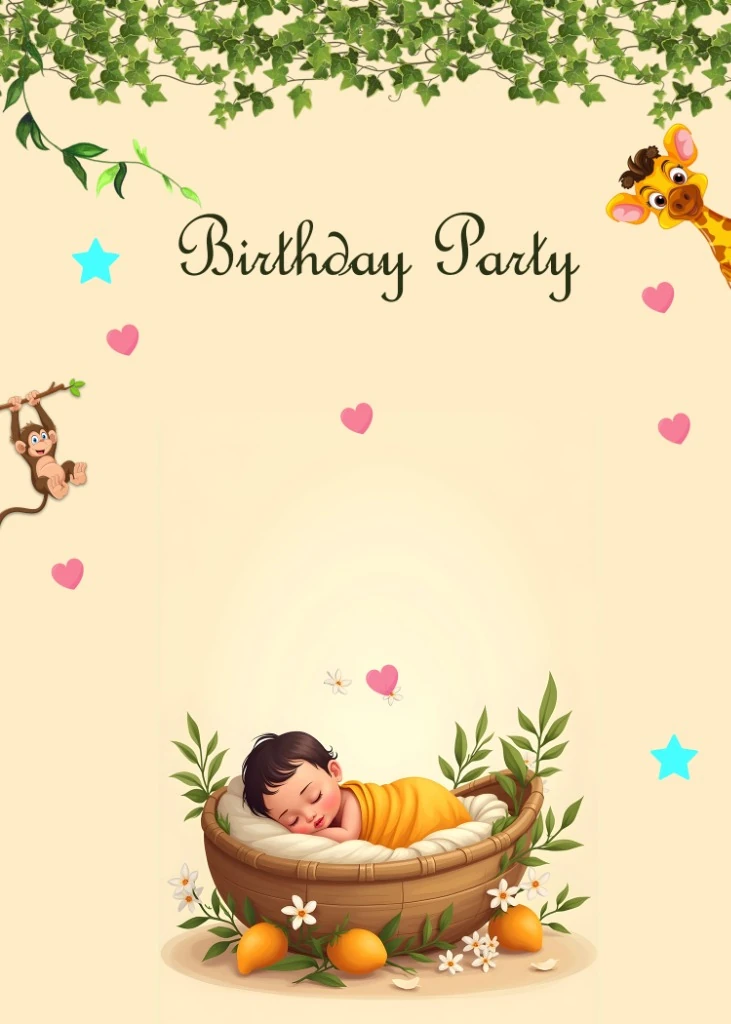
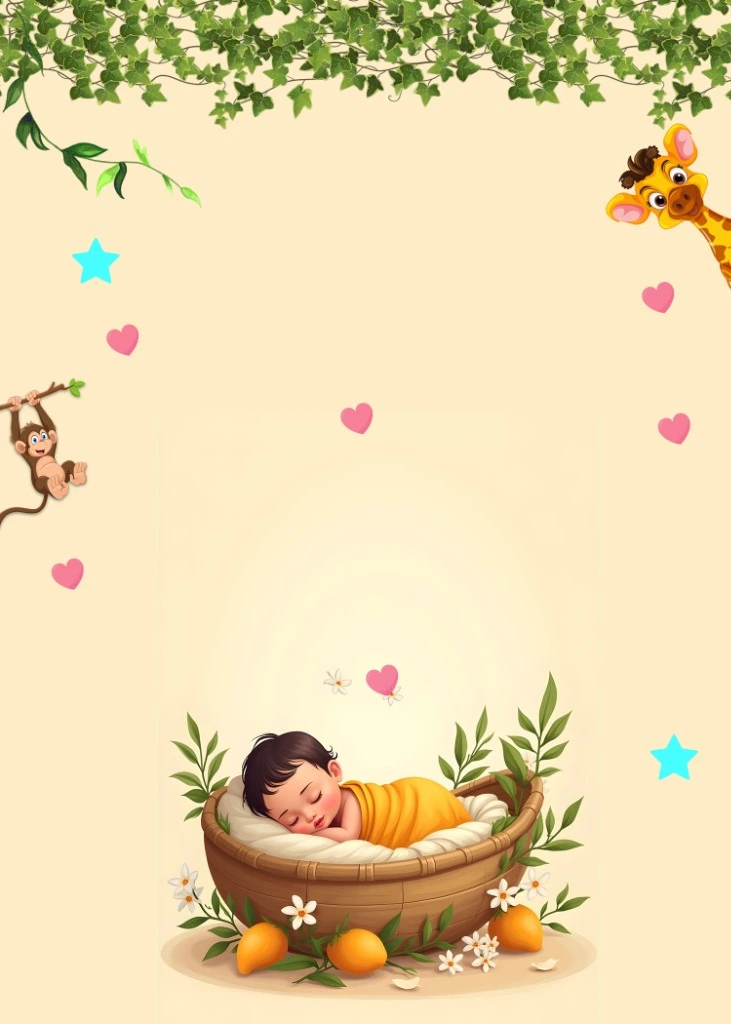
feat(template): update jungle-baby-birthday with middle aligned text, editable Birthday Party layer, and new display preview

Changed region(s): [[0.2408, 0.1875, 0.5718, 0.3125], [0.5718, 0.1875, 0.7825, 0.3125]]

diff --git a/src/data/templates.ts b/src/data/templates.ts
@@ -1253,17 +1253,17 @@ export const SAMPLE_TEMPLATES: CardTemplate[] = [
         "type": "text",
         "text": "JOIN US TO CELEBRATE",
         "fontFamily": "'Outfit', sans-serif",
-        "fontSize": 18,
+        "fontSize": 16,
         "fontWeight": "bold",
         "fontStyle": "normal",
         "textAlign": "center",
         "color": "#1B3B2B",
-        "letterSpacing": 2,
+        "letterSpacing": 2.5,
         "lineHeight": 1.2,
         "textTransform": "uppercase",
-        "x": 85,
+        "x": 0,
         "y": 148,
-        "width": 480,
+        "width": 731,
         "height": 28,
         "rotation": 0,
         "opacity": 1,
@@ -1271,96 +1271,118 @@ export const SAMPLE_TEMPLATES: CardTemplate[] = [
         "zIndex": 1
       },
       {
-        "id": "jb-invitation-message",
+        "id": "jb-title",
         "type": "text",
-        "text": "We joyfully invite you to a special\ncelebration for our little one's birthday!",
-        "fontFamily": "'Poppins', sans-serif",
-        "fontSize": 19,
-        "fontWeight": "600",
+        "text": "Birthday Party",
+        "fontFamily": "'Great Vibes', cursive",
+        "fontSize": 64,
+        "fontWeight": "normal",
         "fontStyle": "normal",
         "textAlign": "center",
-        "color": "#8B1E2F",
-        "letterSpacing": 0.5,
-        "lineHeight": 1.35,
+        "color": "#224229",
+        "letterSpacing": 1,
+        "lineHeight": 1.1,
         "textTransform": "none",
-        "x": 85,
-        "y": 310,
-        "width": 480,
-        "height": 55,
+        "x": 0,
+        "y": 200,
+        "width": 731,
+        "height": 78,
         "rotation": 0,
         "opacity": 1,
         "isLocked": false,
         "zIndex": 2
       },
       {
-        "id": "jb-child-name",
+        "id": "jb-invitation-message",
         "type": "text",
-        "text": "Shivansh",
-        "fontFamily": "'Rozha One', serif",
-        "fontSize": 62,
-        "fontWeight": "bold",
+        "text": "We joyfully invite you to a special\ncelebration for our little one's birthday!",
+        "fontFamily": "'Poppins', sans-serif",
+        "fontSize": 17,
+        "fontWeight": "700",
         "fontStyle": "normal",
         "textAlign": "center",
-        "color": "#2E5A36",
-        "letterSpacing": 2,
-        "lineHeight": 1.1,
+        "color": "#8B1E2F",
+        "letterSpacing": 0.5,
+        "lineHeight": 1.4,
         "textTransform": "none",
-        "shadowColor": "rgba(46, 90, 54, 0.2)",
-        "shadowBlur": 6,
-        "shadowOffsetX": 0,
-        "shadowOffsetY": 2,
-        "x": 85,
-        "y": 430,
-        "width": 480,
-        "height": 75,
+        "x": 0,
+        "y": 308,
+        "width": 731,
+        "height": 56,
         "rotation": 0,
         "opacity": 1,
         "isLocked": false,
         "zIndex": 3
       },
       {
-        "id": "jb-date-time",
+        "id": "jb-child-name",
         "type": "text",
-        "text": "10 | March | 2026 • 5:00 PM Onwards",
-        "fontFamily": "'Poppins', sans-serif",
-        "fontSize": 20,
-        "fontWeight": "700",
+        "text": "Shivansh",
+        "fontFamily": "'Rozha One', serif",
+        "fontSize": 56,
+        "fontWeight": "bold",
         "fontStyle": "normal",
         "textAlign": "center",
-        "color": "#3A4A32",
-        "letterSpacing": 1,
-        "lineHeight": 1.2,
+        "color": "#1D4630",
+        "letterSpacing": 2,
+        "lineHeight": 1.1,
         "textTransform": "none",
-        "x": 85,
-        "y": 530,
-        "width": 480,
-        "height": 30,
+        "shadowColor": "rgba(29, 70, 48, 0.2)",
+        "shadowBlur": 4,
+        "shadowOffsetX": 0,
+        "shadowOffsetY": 2,
+        "x": 0,
+        "y": 415,
+        "width": 731,
+        "height": 75,
         "rotation": 0,
         "opacity": 1,
         "isLocked": false,
         "zIndex": 4
       },
       {
-        "id": "jb-venue",
+        "id": "jb-date-time",
         "type": "text",
-        "text": "Ragini Hall, Connaught Place, New Delhi",
+        "text": "10 | March | 2026 • 5:00 PM Onwards",
         "fontFamily": "'Poppins', sans-serif",
-        "fontSize": 18,
-        "fontWeight": "600",
+        "fontSize": 17,
+        "fontWeight": "700",
         "fontStyle": "normal",
         "textAlign": "center",
-        "color": "#2C3E2D",
-        "letterSpacing": 0.4,
-        "lineHeight": 1.3,
+        "color": "#273A2A",
+        "letterSpacing": 1,
+        "lineHeight": 1.2,
         "textTransform": "none",
-        "x": 85,
-        "y": 575,
-        "width": 480,
-        "height": 32,
+        "x": 0,
+        "y": 520,
+        "width": 731,
+        "height": 30,
         "rotation": 0,
         "opacity": 1,
         "isLocked": false,
         "zIndex": 5
+      },
+      {
+        "id": "jb-venue",
+        "type": "text",
+        "text": "Ragini Hall, Connaught Place, New Delhi",
+        "fontFamily": "'Poppins', sans-serif",
+        "fontSize": 16,
+        "fontWeight": "600",
+        "fontStyle": "normal",
+        "textAlign": "center",
+        "color": "#273A2A",
+        "letterSpacing": 0.4,
+        "lineHeight": 1.3,
+        "textTransform": "none",
+        "x": 0,
+        "y": 565,
+        "width": 731,
+        "height": 32,
+        "rotation": 0,
+        "opacity": 1,
+        "isLocked": false,
+        "zIndex": 6
       }
     ]
   },

diff --git a/tailwind.config.ts b/tailwind.config.ts
@@ -50,8 +50,10 @@ export default {
         sm: "calc(var(--radius) - 4px)",
       },
       fontFamily: {
+        sans: ["'Inter'", "'Poppins'", "-apple-system", "sans-serif"],
+        inter: ["'Inter'", "sans-serif"],
+        devanagari: ["'Poppins'", "'Noto Serif Devanagari'", "sans-serif"],
         serif: ["'Playfair Display'", "Georgia", "serif"],
-        sans: ["'Montserrat'", "'Outfit'", "-apple-system", "sans-serif"],
         calligraphy: ["'Great Vibes'", "'Alex Brush'", "cursive"],
       },
     },
